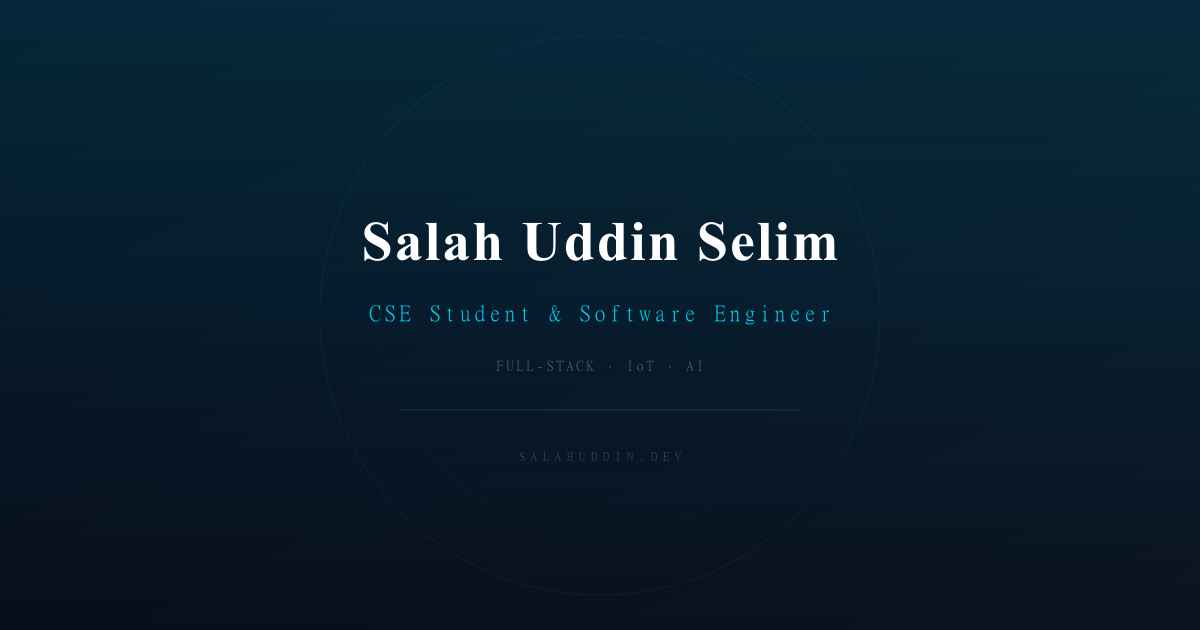
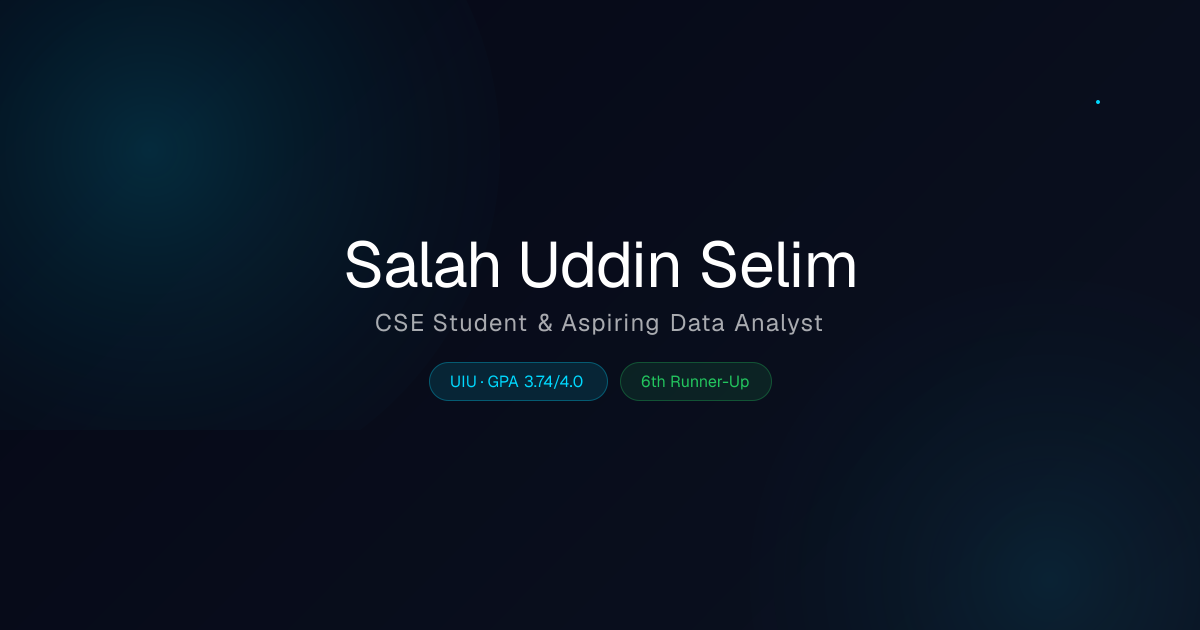
fix(seo): recolor OG image to match the site and regenerate the stale static copy
The social-share preview image was two layers of stale:

1. app/opengraph-image.tsx (the code-generated version) used a navy-blue
   glow (rgba(30,58,138,...)) and an amber glow (rgba(217,119,6,...)) that
   never matched this site's actual palette at any point -- recolored both
   to the real accent tokens (cyan #00d9ff, teal #0891b2) and tightened the
   background gradient to the site's actual bg-primary/bg-secondary values
   instead of a third, unrelated slate stop.

2. public/og-image.png -- the actual file referenced by metadata.openGraph
   (layout.tsx sets this explicitly, so the code-generated route above
   was never actually served to link previews) -- was a static export from
   before the "Aspiring Data Analyst" rebrand: serif font, "CSE Student &
   Software Engineer", no GPA/award info. Regenerated it by fetching the
   now-corrected /opengraph-image route and overwriting the static file,
   so what recruiters see in a shared-link preview matches the live site
   and current identity instead of a months-old snapshot.

diff --git a/app/opengraph-image.tsx b/app/opengraph-image.tsx
@@ -24,7 +24,7 @@ export default async function og() {
         flexDirection: "column",
         alignItems: "center",
         justifyContent: "center",
-        background: "linear-gradient(135deg, #030712 0%, #0B1120 50%, #0F172A 100%)",
+        background: "linear-gradient(135deg, #050816 0%, #0B1120 100%)",
         position: "relative",
         overflow: "hidden",
       }}
@@ -37,7 +37,7 @@ export default async function og() {
           width: 700,
           height: 700,
           borderRadius: "50%",
-          background: "radial-gradient(circle, rgba(30,58,138,0.3), transparent)",
+          background: "radial-gradient(circle, rgba(0,217,255,0.16), transparent)",
         }}
       />
       <div
@@ -48,7 +48,7 @@ export default async function og() {
           width: 600,
           height: 600,
           borderRadius: "50%",
-          background: "radial-gradient(circle, rgba(217,119,6,0.15), transparent)",
+          background: "radial-gradient(circle, rgba(8,145,178,0.14), transparent)",
         }}
       />
       <div
